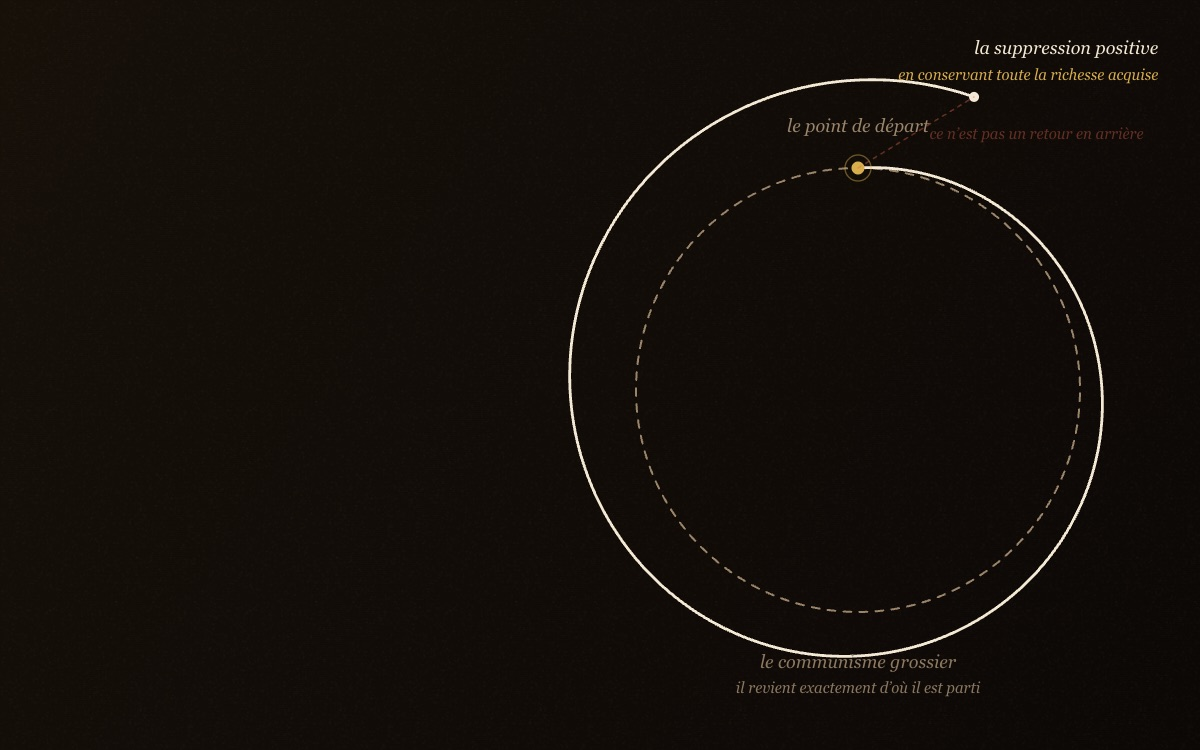
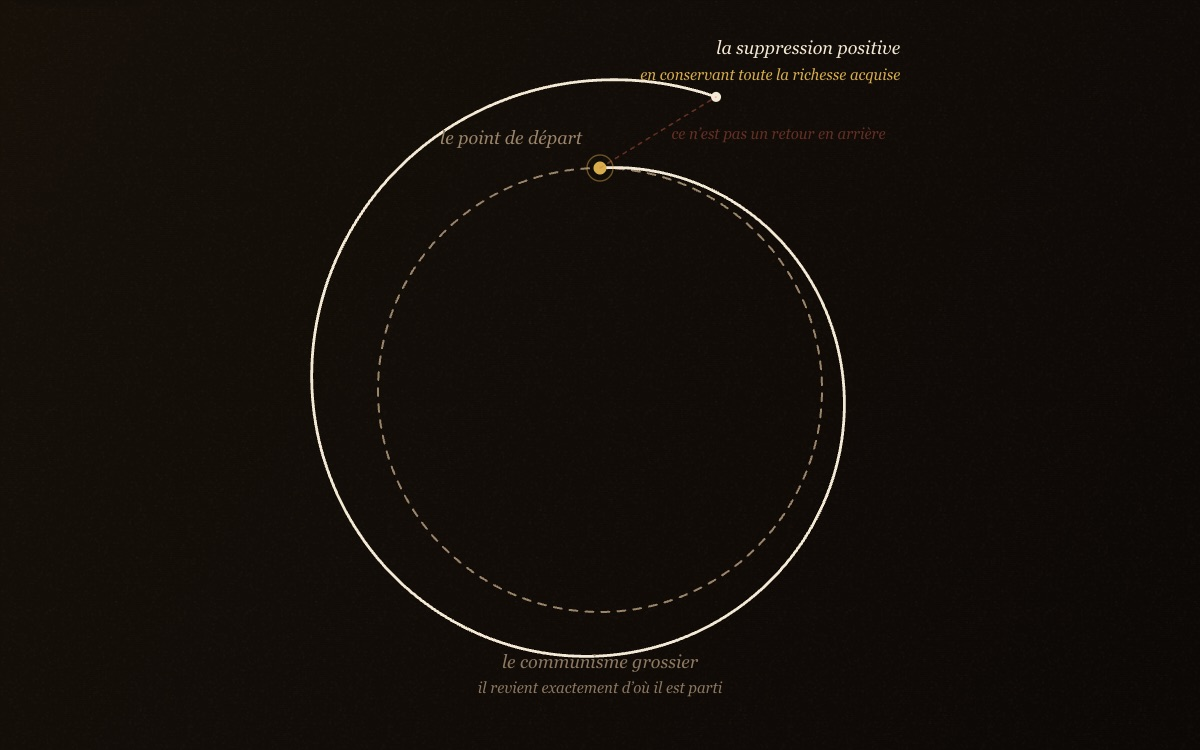
Glossaire : communisme réécrite selon la charte, direction artistique « le plan qu'on ne dessine pas »

diff --git a/glossaire/mondes/communisme/essai.html b/glossaire/mondes/communisme/essai.html
@@ -1,46 +1,77 @@
-<!-- L'ESSAI — le corps de /glossaire/communisme.
-     ⚠ AUCUNE CITATION LIÉE : traduction Bottigelli, protégée jusqu'en 2046.
-     Le troisième manuscrit est PARAPHRASÉ et situé, jamais cité. -->
+<!-- L'ESSAI : le corps de /glossaire/communisme.
+     Réécrit en octobre 2026 selon glossaire/mondes/CHARTE.md.
+     AUCUNE CITATION LIÉE : la traduction Bottigelli des Manuscrits est
+     protégée jusqu'en 2046. Le troisième manuscrit est PARAPHRASÉ et situé,
+     jamais cité entre guillemets. L'Idéologie allemande et le Manifeste ne
+     sont que nommés. Les data-etape et les id des sections ne changent pas :
+     la figure lit les premiers, les liens et la recherche les seconds. -->
 
 <section class="nt-sec" data-etape="mot" id="mot">
-<h2>Un mot que Marx trouve déjà encombré</h2>
-<p>Quand Marx écrit ces pages, en 1844, le mot communisme ne lui appartient pas et ne désigne rien de précis. Il circule depuis une dizaine d'années dans les sociétés ouvrières parisiennes, il recouvre des doctrines très différentes, et il traîne déjà des équivoques que Marx tient pour dangereuses. La première chose qu'il fait n'est donc pas de le défendre, c'est de le <b>diviser</b>&nbsp;: il distingue plusieurs communismes, en critique deux, et ne retient le mot que pour le troisième.</p>
-<p>Cette manière de procéder est déjà un argument. Elle suppose qu'un dépassement de la <a href="/glossaire/propriete-privee">propriété privée</a> puisse être manqué, et manqué de l'intérieur — non par trahison, mais parce qu'on aurait pris pour un dépassement ce qui n'en est que la généralisation. Toute la difficulté est là&nbsp;: comment supprimer un rapport sans le reconduire sous une autre forme&nbsp;?</p>
-<p>On ne lira donc pas ces pages comme un programme. Elles ne disent presque rien de ce qu'il faudrait faire, et beaucoup de ce qu'il ne faudrait pas prendre pour fait. C'est un texte de discernement, écrit contre des amis plutôt que contre des adversaires.</p>
+<h2>Que désigne le mot communisme quand Marx l'emploie en 1844&nbsp;?</h2>
+<p class="nt-lead">Il désigne déjà plusieurs doctrines, et Marx commence par les distinguer. Il en décrit trois formes, en critique deux et ne garde le mot, au sens fort, que pour la troisième&nbsp;: l'abolition positive de la propriété privée.</p>
+<p>Le passage se trouve dans le troisième des <i>Manuscrits de 1844</i>, des cahiers que Marx rédige à Paris et qui restent inédits jusqu'en 1932. L'édition l'intitule «&nbsp;Propriété privée et communisme&nbsp;». Il fait suite à une analyse du <a href="/glossaire/travail-aliene">travail aliéné</a>, dont Marx a conclu que la <a href="/glossaire/propriete-privee">propriété privée</a> est le produit et l'expression&nbsp;: le travail de l'ouvrier lui revient sous la forme d'une richesse qui appartient à un autre et le commande. La question du communisme se pose donc ainsi&nbsp;: que faudrait-il abolir, et comment, pour que ce retournement cesse&nbsp;?</p>
+<p>Marx ne part pas d'une définition qu'il aurait inventée. Il passe en revue les critiques de la propriété qui circulent autour de lui. Proudhon veut abolir le capital comme tel, Fourier voit le mal dans le travail morcelé, Saint-Simon fait du travail industriel l'essentiel et demande le pouvoir pour les industriels. Le communisme vient ensuite, et il nomme encore Owen, Cabet ou Villegardelle. Le mot est donc pris dans une conversation qui existe avant lui, et la première chose que Marx en fait est de le diviser.</p>
+<p>Cette manière de procéder porte un argument. Elle suppose qu'on peut manquer l'abolition de la propriété privée tout en croyant l'accomplir, parce qu'on aurait seulement étendu le rapport qu'on voulait supprimer. Toute la page cherche à répondre à cette difficulté&nbsp;: comment abolir un rapport sans le reconduire sous une autre forme&nbsp;? La lithographie en tête de page montre ce que les partisans d'Owen se représentaient sous le nom de communauté&nbsp;: un plan, dessiné jusqu'au dernier bâtiment. Le troisième manuscrit ne dessine rien de tel.</p>
 </section>
 
 <section class="nt-sec" data-etape="grossier" id="grossier">
-<h2>Le communisme grossier&nbsp;: la propriété privée généralisée</h2>
-<p>La première figure que Marx écarte est celle qu'il nomme le communisme encore grossier, et sa critique est d'une dureté qu'on ne cite pas assez. Ce communisme-là veut abolir la propriété privée&nbsp;; mais il l'abolit en la rendant universelle. La communauté devient le propriétaire général, le capitaliste universel&nbsp;; le rapport d'avoir n'est pas supprimé, il est étendu à tous et à tout.</p>
-<p>Marx en tire deux conséquences qu'il décrit sans ménagement. La première est que ce communisme est mû par l'envie&nbsp;: son mobile n'est pas l'émancipation mais le nivellement, et il en vient à haïr tout ce qui dépasse — le talent, la culture, ce qui ne peut se partager en parts égales. La seconde est qu'il aboutit à une négation de la personnalité et à un retour à la simplicité contre nature de l'homme pauvre et sans besoins, c'est-à-dire à l'ascèse qu'il croyait combattre.</p>
-<p>Le signe le plus net de cette confusion, aux yeux de Marx, est ce qu'un tel communisme fait du rapport entre les sexes&nbsp;: il propose de mettre les femmes en commun, comme des biens, et révèle par là qu'il n'a pas quitté d'un pouce le terrain de la possession. Le passage est daté dans sa formulation, mais son ressort ne l'est pas&nbsp;: un dépassement qui se contente de changer le propriétaire n'a rien dépassé.</p>
+<h2>Pourquoi Marx appelle-t-il grossier le premier communisme&nbsp;?</h2>
+<p class="nt-lead">Parce qu'il abolit la propriété privée en l'étendant à tous. La communauté devient le propriétaire général, et le rapport de possession, qui était le défaut, devient la règle commune.</p>
+<p>Ce premier communisme, dit Marx, n'est qu'une généralisation et un achèvement du rapport de propriété privée. Il ne connaît d'autre fin que de posséder physiquement les choses, si bien qu'il veut détruire tout ce qui ne peut pas être possédé par tous à parts égales, et ignorer de force le talent, qui ne se partage pas. Sa mesure est un minimum. Marx décèle sous ce goût de l'égalisation une envie généralisée, qui est la forme cachée que prend la soif de richesse quand elle se tourne contre les plus riches. Ce communisme nie toute culture et ramène l'homme à une pauvreté sans besoins que Marx juge contraire à sa nature&nbsp;: un état qui n'a pas dépassé la propriété privée, et qui n'y est pas même arrivé.</p>
+<p>Le cahier dit nettement ce qui reste en place. Personne ne cesse d'être ouvrier&nbsp;: tout le monde le devient. Ce qu'on met en commun, c'est le travail, et ce qu'on égalise, c'est le salaire que verse un capital désormais collectif&nbsp;; la communauté tient lieu de capitaliste général. Le travail et le capital restent face à face, simplement étendus à toute la société.</p>
+<div class="nt-ex">
+<p class="nt-ex-t">Un exemple</p>
+<p>Imaginons une fabrique dont les machines n'appartiennent plus à un patron mais à la commune. Tout le monde y travaille le même nombre d'heures et touche le même salaire, prélevé sur la caisse commune. Personne n'est plus riche que son voisin, et le propriétaire a disparu.</p>
+<p>Pourtant rien n'a changé dans le rapport de chacun à son travail. Travailler reste un moyen de toucher un salaire, et le produit reste une chose à partager selon un barème. La caisse commune occupe la place du patron. C'est ce que Marx appelle la communauté comme capitaliste général. L'exemple est le nôtre, l'analyse est la sienne.</p>
+</div>
+<p>Marx en donne un signe qu'il juge révélateur&nbsp;: ce communisme propose de remplacer le mariage par la communauté des femmes, c'est-à-dire de faire de la femme une propriété commune. Or le rapport de l'homme à la femme est, pour Marx, la mesure de ce que l'homme est devenu&nbsp;: il montre jusqu'où son comportement naturel est devenu humain, jusqu'où l'autre homme est devenu pour lui un besoin. Traiter la femme comme un bien collectif, c'est avouer qu'on n'a pas quitté le terrain de l'avoir.</p>
 </section>
 
 <section class="nt-sec" data-etape="politique" id="politique">
-<h2>La forme encore politique, et son insuffisance</h2>
-<p>La deuxième figure est plus avancée, et Marx la traite avec plus d'égards. C'est le communisme qui reste de nature politique&nbsp;: démocratique ou despotique selon les cas, il vise l'abolition de l'État, et il a compris que la propriété privée est un rapport social et non une chose. Il n'en reste pas moins prisonnier de ce qu'il combat, parce qu'il pense le dépassement dans les catégories de l'ordre qu'il veut quitter — celles du droit, de la souveraineté, de la répartition.</p>
-<p>La critique porte donc sur un déplacement insuffisant. Tant qu'on discute de qui possède et de quel droit, on demeure dans un cadre où la question est <i>l'attribution</i> des choses. Or ce que les <i>Manuscrits</i> ont établi, c'est que la propriété privée est le produit d'un rapport de production — celui du <a href="/glossaire/travail-aliene">travail aliéné</a> —, et qu'un changement d'attribution laisse ce rapport intact.</p>
-<p>Il faut noter que Marx ne dit pas que cette voie soit vaine&nbsp;: il dit qu'elle est encore une figure, un moment, une compréhension incomplète d'elle-même. C'est une nuance qui compte, parce qu'elle interdit de lire ces pages comme un rejet de toute action politique.</p>
+<h2>Qu'est-ce qui manque encore à la deuxième forme&nbsp;?</h2>
+<p class="nt-lead">Elle sait que le communisme doit être un retour de l'homme à lui-même, une fin de l'aliénation. Mais elle n'a compris ni ce que la propriété privée a produit de positif, ni ce qu'est un besoin humain&nbsp;: elle tient le concept sans l'essence.</p>
+<p>Marx range sous la deuxième forme deux variantes. La première reste de nature politique, démocratique ou despotique. La seconde va jusqu'à supprimer l'État, mais demeure inachevée et toujours prise dans la propriété privée, c'est-à-dire dans l'aliénation. Les deux marquent un progrès sur le communisme grossier, puisqu'elles se comprennent déjà comme un retour de l'homme à lui-même. Marx ne les condamne pas&nbsp;; il les classe comme des moments, plus avancés que le premier et encore incomplets.</p>
+<p>Leur défaut tient en deux points. D'abord, elles n'ont pas saisi l'essence positive de la propriété privée. Il faut entendre ce mot&nbsp;: le mouvement de la propriété privée a développé des forces, des sciences, des <a href="/glossaire/besoins">besoins</a> nouveaux, et c'est cette richesse qu'il s'agira de reprendre. Ensuite, elles n'ont pas compris la nature humaine du besoin. Un besoin humain dépasse la simple survie&nbsp;: il porte sur la beauté d'une chose, sur la compagnie des autres, sur une activité qu'on exerce pour elle-même. Faute de le voir, on règle la répartition des biens sans toucher au rapport des hommes à leurs biens.</p>
+<p>Marx ajoute un reproche de méthode. Le communisme inachevé cherche des preuves historiques dans des communautés isolées du passé qui se seraient opposées à la propriété privée, et Marx cite Cabet et Villegardelle. Il répond que ces exemples se retournent contre ceux qui les invoquent&nbsp;: la plus grande partie de l'histoire les dément, et une communauté qui a existé puis disparu prouve surtout qu'elle n'était pas la forme vraie des choses.</p>
 </section>
 
 <section class="nt-sec" data-etape="positif" id="positif">
-<h2>La distinction qui fait le concept&nbsp;: la suppression positive</h2>
-<p>La troisième figure est celle que Marx retient, et il la nomme d'une expression dont chaque mot porte&nbsp;: la <b>suppression positive</b> de la propriété privée. Supprimer, ici, ne veut pas dire faire disparaître un objet ni transférer un titre&nbsp;; cela veut dire abolir le rapport qui fait que le monde produit revient à ses producteurs comme une puissance étrangère. Et positive s'oppose à une suppression qui se contenterait de nier — celle du communisme grossier, qui abolit en généralisant.</p>
-<p>Le contenu de cette suppression, Marx le donne en termes de rapports et non de biens&nbsp;: elle est l'appropriation réelle de l'essence humaine par l'homme et pour l'homme, c'est-à-dire le retour de l'homme à lui-même comme <a href="/glossaire/etre-generique">être générique</a> — un être pour qui produire est une manière de se rapporter à ce que peut son espèce. On retrouve donc, comme définition du dépassement, ce qui avait servi à mesurer le dommage.</p>
-<p>Le point décisif — et c'est celui que la figure de cette page cherche à rendre — est que ce retour n'est pas un retour en arrière. Marx précise qu'il s'accomplit en conservant toute la richesse du développement antérieur&nbsp;: la division du travail, les forces productives, les sciences, les besoins nouveaux ne sont pas ce qu'il faudrait défaire, mais ce qu'il faut se réapproprier. C'est ce qui sépare absolument sa position d'une nostalgie, et c'est ce qui la rend difficile&nbsp;: on ne revient pas au point de départ, on revient au-dessus de lui.</p>
+<h2>Que veut dire abolir positivement la propriété privée&nbsp;?</h2>
+<p class="nt-lead">Cela veut dire abolir le rapport qui retourne contre l'homme ce qu'il produit, en gardant tout ce que ce rapport a permis de développer. Marx parle d'un retour de l'homme à lui-même comme être social, accompli sans rien perdre de la richesse produite auparavant.</p>
+<p>La troisième forme est l'abolition positive de la propriété privée, entendue comme aliénation humaine de soi. Son contenu, Marx le donne en termes de rapports&nbsp;: l'homme reprend réellement possession de sa propre essence, par lui-même et pour lui-même. Il revient à lui-même comme être social, et c'est en cela qu'il redevient humain&nbsp;; ce retour se fait en connaissance de cause. On retrouve ici la notion d'<a href="/glossaire/etre-generique">être générique</a>&nbsp;: ce qui définissait la perte, l'homme séparé de ce que peut son espèce, définit aussi le dépassement.</p>
+<p>Le mot allemand est <i lang="de">Aufhebung</i>. Le traducteur signale en note qu'il l'a rendu jusque-là par suppression ou abolition, puis par dépassement, parce que le terme a chez Hegel deux sens à la fois&nbsp;: faire cesser et conserver. La figure en bas de page parle de suppression positive, le texte servi d'abolition positive&nbsp;; c'est le même mot. Le double sens fait le concept. L'abolition est positive parce qu'elle conserve ce qu'elle dépasse&nbsp;: le communisme grossier, lui, se contentait de nier.</p>
+<p>Ce que l'homme se réapproprie, ce sont d'abord ses sens. La propriété privée, explique Marx, a rétréci notre rapport aux choses au point qu'une chose ne nous paraît à nous que si nous la possédons, la mangeons, l'habitons ou la portons&nbsp;: un seul sens, celui de l'avoir, a pris la place de tous les autres. Il prend l'exemple du marchand de minéraux, qui n'aperçoit dans une pierre que ce qu'elle vaut à la vente&nbsp;; sa beauté et ce qu'elle est lui échappent. L'abolition positive est l'émancipation de tous les sens&nbsp;: l'œil devient un œil humain quand son objet devient un objet social, fait par des hommes et pour eux.</p>
+<p>Le retour ne se fait donc pas en arrière. Les forces, les sciences et les besoins que le développement antérieur a produits sont à reprendre, avec tout ce qu'ils ont coûté. La figure le dessine&nbsp;: partie du même point que le cercle du communisme grossier, la spirale revient au-dessus de lui.</p>
 </section>
 
 <section class="nt-sec" data-etape="enigme" id="enigme">
-<h2>Ce que le concept ouvre&nbsp;: l'énigme résolue</h2>
-<p>De là les deux formules les plus commentées du cahier, qu'il faut prendre pour ce qu'elles sont&nbsp;: des définitions, non des promesses. La première dit que ce communisme est le naturalisme accompli, lequel est un humanisme, et l'humanisme accompli, lequel est un naturalisme&nbsp;; ce chiasme signifie que le rapport de l'homme à la nature et son rapport à lui-même cessent d'être deux problèmes séparés, puisque la nature est le corps prolongé de celui qui travaille.</p>
-<p>La seconde dit qu'il est l'énigme résolue de l'histoire, et qu'il se sait comme cette solution. La formule est ambitieuse et elle a beaucoup servi à discréditer le texte&nbsp;; il faut pourtant l'entendre dans son contexte, qui est celui d'une énumération d'oppositions — l'homme et la nature, l'individu et l'espèce, la liberté et la nécessité, l'existence et l'essence. Ce que Marx affirme est que ces couples ne sont pas des données éternelles de la condition humaine mais les effets d'un rapport historique, et qu'ils tombent avec lui.</p>
-<p>Nous tenons cette page pour l'énoncé d'un programme théorique plutôt que politique, et pour la raison suivante&nbsp;: Marx y ajoute lui-même que le mouvement réel qui abolit l'état de choses actuel n'a pas à être déduit, et que c'est l'histoire effective qui le produira. La formule dit ce que le dépassement devrait résoudre, non par quelles voies ni à quelle date.</p>
+<h2>Pourquoi Marx dit-il que ce communisme résout l'énigme de l'histoire&nbsp;?</h2>
+<p class="nt-lead">Parce que les oppositions qu'on croyait inscrites dans la condition humaine, entre l'homme et la nature, l'individu et l'espèce, la liberté et la nécessité, sont pour lui les effets d'un rapport historique. Elles tombent avec lui. La formule est une définition, et Marx refuse d'en faire une prédiction.</p>
+<p>Marx écrit que ce communisme, naturalisme achevé, est un humanisme, et qu'humanisme achevé, il est un naturalisme. Le traducteur précise en note qu'il ne s'agit ni du naturalisme littéraire ni d'un retour à la nature&nbsp;: l'homme retrouve sa propre nature et peut développer ses forces sans que le monde des objets devienne un monde hostile. Le chiasme dit que le rapport de l'homme à la nature et son rapport aux autres hommes cessent d'être deux problèmes séparés.</p>
+<p>Marx énumère alors les antagonismes que ce communisme résout&nbsp;: l'homme et la nature, l'homme et l'homme, l'existence et l'essence, l'<a href="/glossaire/objectivation">objectivation</a> et l'affirmation de soi, la liberté et la nécessité, l'individu et le genre. Il est, dit Marx, l'énigme de l'histoire enfin résolue, et il se sait comme tel. La phrase a beaucoup servi à railler le texte. Sa portée est pourtant précise&nbsp;: ces couples, dit Marx, ne sont pas des données éternelles, et leur solution dépend de l'abolition du rapport qui les produit.</p>
+<p>Le même manuscrit borne lui-même sa formule. Penser le communisme suffit pour abolir l'idée de la propriété privée&nbsp;; pour abolir la propriété réelle, il faut une action réelle, que l'histoire apportera, prévient Marx, au terme d'un processus long et rude. Ailleurs dans le cahier, il présente le communisme comme la forme nécessaire de l'avenir proche et ce qui le pousse en avant, sans en faire le but du développement humain ni la forme que prendra la société humaine.</p>
+<div class="nt-ex">
+<p class="nt-ex-t">L'exemple de Marx</p>
+<p>Le seul tableau concret que le manuscrit donne du communisme est une réunion d'ouvriers. Des ouvriers communistes se retrouvent, note Marx, pour discuter de doctrine et faire de la propagande. Mais à force de se retrouver, ils se découvrent un besoin qu'ils n'avaient pas, celui d'être ensemble, et ce qui servait de moyen devient leur fin.</p>
+<p>Marx renvoie aux réunions des ouvriers socialistes français, où l'on voit, dit-il, ce mouvement porter ses plus beaux fruits. On n'y mange et l'on n'y boit plus pour avoir une raison de venir&nbsp;: être ensemble et parler suffit, et la fraternité y est une chose vécue. L'exemple montre un mouvement qui transforme déjà les besoins de ceux qui y prennent part, bien avant qu'aucune société nouvelle existe.</p>
+</div>
 </section>
 
 <section class="nt-sec" data-etape="lectures" id="lectures">
-<h2>Lectures, et contresens</h2>
-<p>Le premier contresens, et de loin le plus commun, consiste à attribuer à Marx ce qu'il critique&nbsp;: la mise en commun des biens, le nivellement, l'ascèse. Or ces traits sont ceux du communisme grossier, et ils sont écartés dans les termes les plus durs du cahier. On peut discuter la position de Marx&nbsp;; on ne peut pas la confondre avec celle qu'il réfute à la page précédente.</p>
-<p>Le deuxième contresens est plus subtil et se rencontre chez des lecteurs sympathisants&nbsp;: on fait du communisme un état, une société décrite, un point d'arrivée. Le texte dit le contraire à deux endroits — il parle d'un mouvement, et il précise que le communisme n'est pas comme tel le but du développement humain, mais la forme sous laquelle ce développement redevient possible. Ce qui est visé n'est pas une organisation mais la levée d'un obstacle.</p>
-<p>Le troisième contresens tient à la chronologie. On oppose volontiers ce communisme philosophique de 1844 à celui, prétendument scientifique, des œuvres ultérieures. La coupure est réelle dans le vocabulaire&nbsp;; elle l'est moins dans l'objet. Ce que le <i>Manifeste</i> appellera l'abolition de la propriété bourgeoise et ce que le <i>Capital</i> décrira comme l'expropriation des expropriateurs supposent le même déplacement&nbsp;: du partage des choses au rapport de production. Nous nous rangeons parmi ceux qui lisent une continuité de problème sous une discontinuité de langue.</p>
-<p>Reste le statut du texte. Ces cahiers sont un chantier, inédit jusqu'en 1932, et leur publication a nourri des débats — l'existence de deux Marx, la place de l'humanisme — que ces quelques pages ne peuvent pas trancher. Nous croyons plus honnête de dire ce qu'on y lit, et de laisser ouvert ce que Marx lui-même n'y a pas fermé.</p>
+<h2>Comment lire ces pages, et quels contresens éviter&nbsp;?</h2>
+<p class="nt-lead">Ces pages définissent un concept dans un chantier que Marx n'a pas publié. Il faut les lire pour ce qu'elles disent, sans leur prêter ce que le mot a désigné plus tard, ni s'en servir pour juger ce qui s'en est réclamé.</p>
+<p>Le mot change de fonction dans les années qui suivent. Dans <i>L'Idéologie allemande</i>, écrite en 1845 et 1846, Marx et Engels refusent de faire du communisme un idéal sur lequel la réalité devrait se régler&nbsp;: ils l'appellent le mouvement réel qui abolit l'état de choses existant. En 1848, le <a href="/oeuvres/manifeste"><i>Manifeste</i></a> en fait le nom d'un parti et d'un programme. Au siècle suivant, le mot nomme des partis et des États. Le troisième manuscrit ne dit rien des institutions, de l'organisation de l'économie, du parti ni de l'État d'après l'abolition. On ne peut donc ni y lire ces régimes ni s'appuyer sur lui pour les absoudre ou les condamner&nbsp;: c'est une autre question, qui demande d'autres textes.</p>
+<p>Le statut du texte invite aussi à la prudence. Ces cahiers sont des notes de travail, interrompues, parfois déchirées, publiées près de quatre-vingt-dix ans après leur rédaction. Leur publication a nourri des débats, sur l'existence de deux Marx ou sur la place de l'humanisme dans son œuvre, que ces quelques pages ne tranchent pas. Nous préférons dire ce qu'on y lit et laisser ouvert ce que Marx n'y a pas fermé.</p>
+<div class="nt-cs">
+<p><span class="nt-cs-k">On lit souvent</span> Le communisme de Marx serait la mise en commun des biens, l'égalité des salaires et le renoncement aux plaisirs.</p>
+<p><span class="nt-cs-k">Ce que dit le texte</span> Ce sont les traits du communisme grossier, que Marx critique le plus durement&nbsp;: pour lui, il étend la propriété privée au lieu de l'abolir et fait de la communauté un capitaliste général.</p>
+</div>
+<div class="nt-cs">
+<p><span class="nt-cs-k">On lit souvent</span> Les <i>Manuscrits</i> décriraient une société idéale, le plan d'un monde futur.</p>
+<p><span class="nt-cs-k">Ce que dit le texte</span> Marx ne donne aucun plan et précise que le communisme n'est pas, comme tel, le but du développement humain. Il décrit un mouvement, dont l'histoire réelle aura à produire les formes, et il reproche aux communismes inachevés de chercher leurs preuves dans des communautés du passé.</p>
+</div>
+<div class="nt-cs">
+<p><span class="nt-cs-k">On lit souvent</span> Le communisme dissoudrait l'individu dans le collectif.</p>
+<p><span class="nt-cs-k">Ce que dit le texte</span> Marx met en garde contre la tentation de dresser la société comme une abstraction en face de l'individu&nbsp;: l'individu est l'être social. L'abolition positive est l'émancipation des sens et des qualités de chacun, et le premier communisme est critiqué pour avoir nié la personnalité.</p>
+</div>
 </section>

diff --git a/glossaire/mondes/communisme/monde.js b/glossaire/mondes/communisme/monde.js
@@ -49,9 +49,11 @@ window.LM_MONDE = function (canvas) {
     for (var gx = 0; gx < cw; gx += 200) for (var gy = 0; gy < ch; gy += 200) ctx.drawImage(grain, gx, gy);
     ctx.restore();
 
-    /* LA PLANCHE VIT DANS LA MOITIÉ DROITE — la colonne de texte prend les
-       quarante-trois premiers pour cent. */
-    var CXc = cw * 0.715, CYc = ch * 0.52, R = Math.min(cw * 0.185, ch * 0.30);
+    /* LA PLANCHE EST CENTRÉE DANS LA FIGURE. Elle vivait dans la moitié
+       droite tant que la colonne de texte passait devant (architecture
+       « plein ») ; depuis octobre 2026 la scène est une figure en bas de
+       page, et l'image fixe se photographie à 1200 px : plus de décalage. */
+    var CXc = cw * 0.5, CYc = ch * 0.52, R = Math.min(cw * 0.185, ch * 0.30);
     var taille = Math.max(14, Math.round(ch * 0.024));
     ctx.lineCap = 'round'; ctx.lineJoin = 'round';
 
@@ -104,8 +106,9 @@ window.LM_MONDE = function (canvas) {
       ctx.fillStyle = OR; ctx.beginPath(); ctx.arc(P0x, P0y, 6.5, 0, 6.3); ctx.fill();
       ctx.strokeStyle = 'rgba(216,173,76,.45)'; ctx.lineWidth = 1.4;
       ctx.beginPath(); ctx.arc(P0x, P0y, 13, 0, 6.3); ctx.stroke();
-      ctx.fillStyle = SOURD; ctx.font = 'italic ' + taille + 'px Georgia, serif'; ctx.textAlign = 'center';
-      ctx.fillText('le point de départ', P0x, P0y - ch * 0.048);
+      /* à gauche du point : à droite, il tombait sur la mention de l'écart */
+      ctx.fillStyle = SOURD; ctx.font = 'italic ' + taille + 'px Georgia, serif'; ctx.textAlign = 'right';
+      ctx.fillText('le point de départ', P0x - 18, P0y - ch * 0.032);
       ctx.globalAlpha = 1;
     }
 
